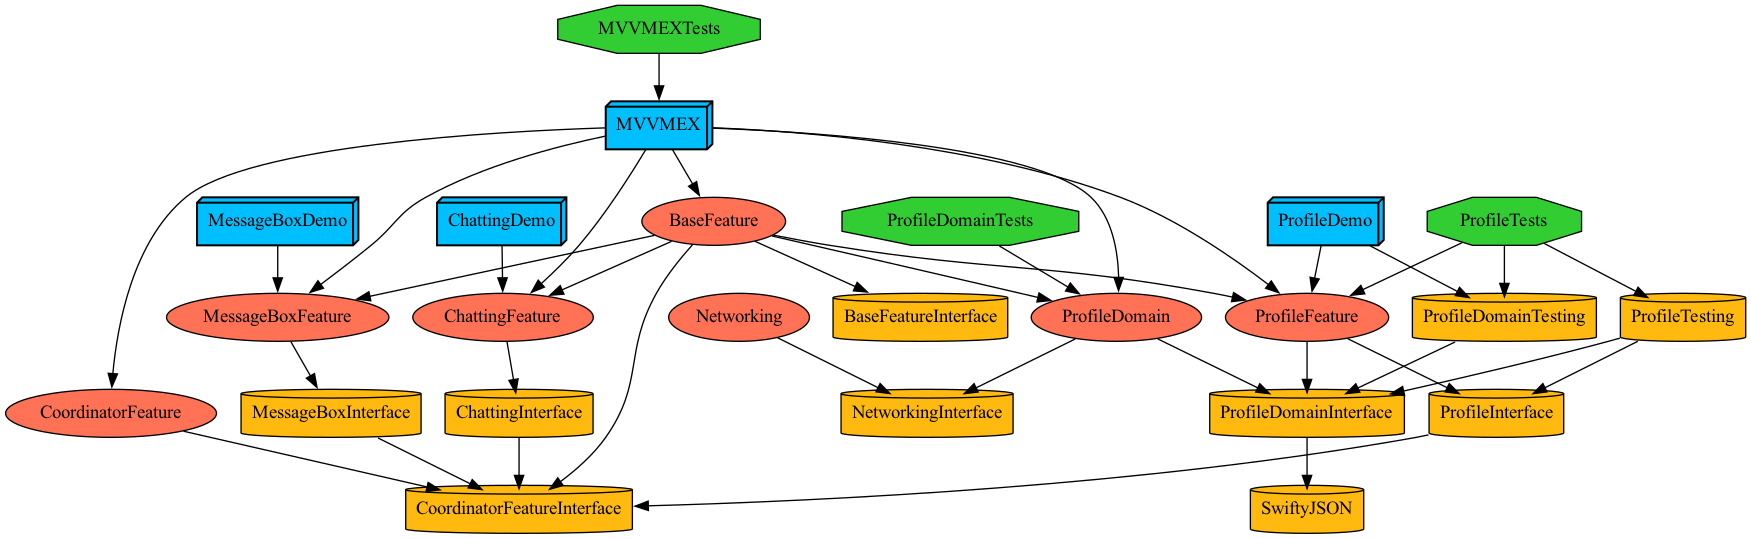
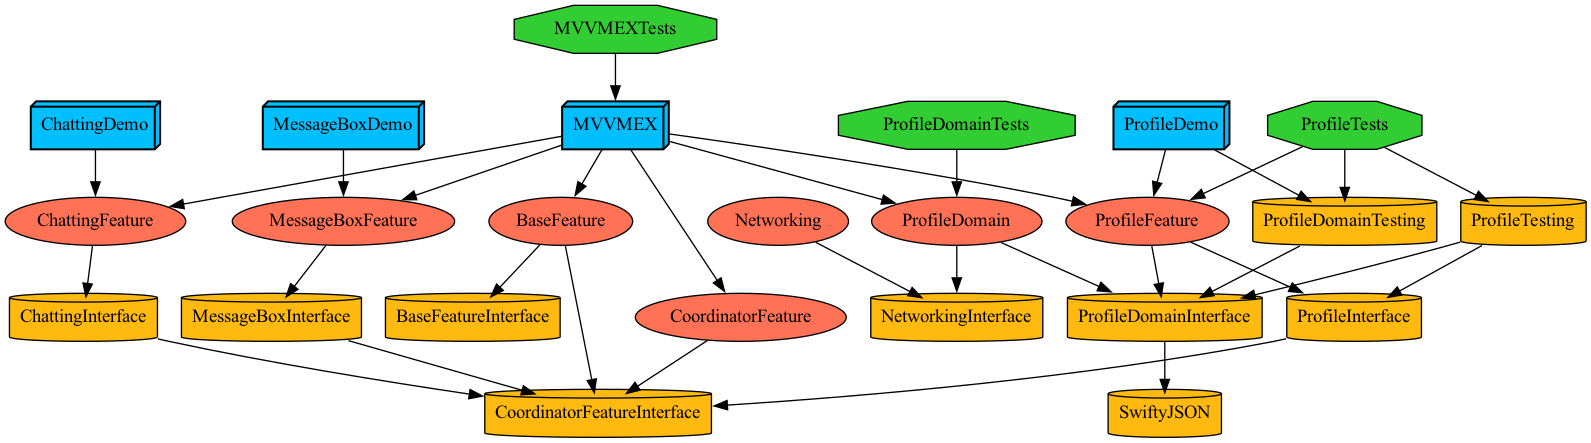
fix: baseFeature 의존 수정

diff --git a/Modules/Feature/BaseFeature/Project.swift b/Modules/Feature/BaseFeature/Project.swift
@@ -15,12 +15,6 @@ let project = Project.module(
         .implements(module: "BaseFeature", dependencies: [
             .project(target: "BaseFeatureInterface", path: .relativeToFeature("BaseFeature")),
             .project(target: "CoordinatorFeatureInterface", path: .relativeToFeature("CoordinatorFeature")),
-
-            Module.Feature.ProfileFeature.toTargetDependency,
-            Module.Feature.MessageBoxFeature.toTargetDependency,
-            Module.Feature.ChattingFeature.toTargetDependency,
-
-            Module.Domain.ProfileDomain.toTargetDependency,
         ])
     ]
 )
